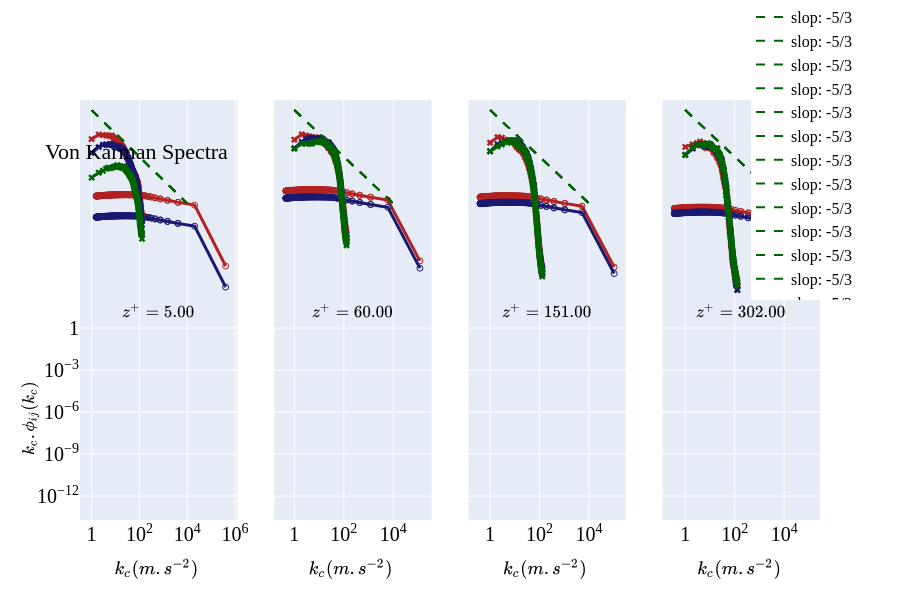
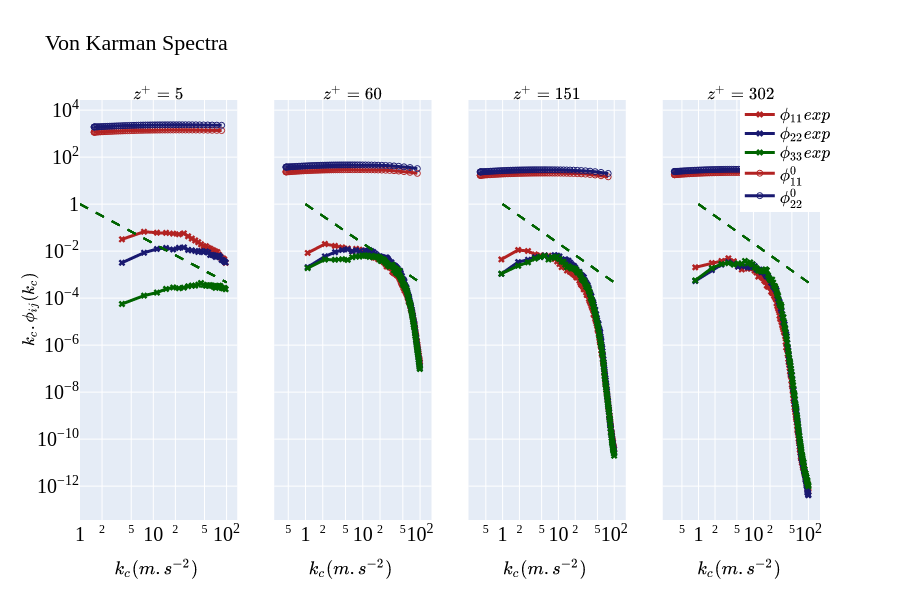
new

diff --git a/src/plot.py b/src/plot.py
@@ -10,19 +10,19 @@ font = dict(family="serif",
 
 def init_figures_ft(z, ch='normal'):
     if ch == 'normal':
-        fig1 = make_subplots(rows=1, cols=4, shared_yaxes=True, y_title='$\phi(k_x)$', subplot_titles=(f"$z^+={z[0]:.2f}$", f"$z^+={z[1]:.2f}$", f"$z^+={z[2]:.2f}$", f"$z^+={z[3]:.2f}$"))
+        fig1 = make_subplots(rows=1, cols=4, shared_yaxes=True, y_title='$\phi(k_x)$', subplot_titles=(f"$z^+={z[0]}$", f"$z^+={z[1]}$", f"$z^+={z[2]}$", f"$z^+={z[3]}$"))
         
-        fig2 = make_subplots(rows=1, cols=4, shared_yaxes=True, y_title='$R_{UU}(\delta t)$', horizontal_spacing=0.02, subplot_titles=(f"$z^+={z[0]:.2f}$", f"$z^+={z[1]:.2f}$", f"$z^+={z[2]:.2f}$", f"$z^+={z[3]:.2f}$"))
+        fig2 = make_subplots(rows=1, cols=4, shared_yaxes=True, y_title='$R_{UU}(\delta t)$', horizontal_spacing=0.02, subplot_titles=(f"$z^+={z[0]}$", f"$z^+={z[1]}$", f"$z^+={z[2]}$", f"$z^+={z[3]}$"))
         
-        fig3 = make_subplots(rows=1, cols=4, shared_yaxes=True, y_title='$\delta t$', subplot_titles=(f"$z^+={z[0]:.2f}$", f"$z^+={z[1]:.2f}$", f"$z^+={z[2]:.2f}$", f"$z^+={z[3]:.2f}$"))
+        fig3 = make_subplots(rows=1, cols=4, shared_yaxes=True, y_title='$\delta t$', subplot_titles=(f"$z^+={z[0]}$", f"$z^+={z[1]}$", f"$z^+={z[2]}$", f"$z^+={z[3]}$"))
 
         
     if ch == "all":
-        fig1 = make_subplots(rows=2, cols=5, shared_yaxes='rows', row_titles=('$\phi(k_x)$', '$\phi(k_x)$'), vertical_spacing=0.15, subplot_titles=(f"$z^+={z[0]:.2f}$", f"$z^+={z[1]:.2f}$", f"$z^+={z[2]:.2f}$", f"$z^+={z[3]:.2f}$", f"$z^+={z[4]:.2f}$", f"$z^+={z[5]:.2f}$", f"$z^+={z[6]:.2f}$", f"$z^+={z[7]:.2f}$", f"$z^+={z[8]:.2f}$", f"$z^+={z[9]:.2f}$"))
+        fig1 = make_subplots(rows=2, cols=5, shared_yaxes='rows', row_titles=('$\phi(k_x)$', '$\phi(k_x)$'), vertical_spacing=0.15, subplot_titles=(f"$z^+={z[0]}$", f"$z^+={z[1]}$", f"$z^+={z[2]}$", f"$z^+={z[3]}$", f"$z^+={z[4]}$", f"$z^+={z[5]}$", f"$z^+={z[6]}$", f"$z^+={z[7]}$", f"$z^+={z[8]}$", f"$z^+={z[9]}$"))
         
-        fig2 = make_subplots(rows=2, cols=5, shared_yaxes='rows', row_titles=('$R_{UU}(\delta t)$', '$R_{UU}(\delta t)$'), horizontal_spacing=0.02, subplot_titles=(f"$z^+={z[0]:.2f}$", f"$z^+={z[1]:.2f}$", f"$z^+={z[2]:.2f}$", f"$z^+={z[3]:.2f}$", f"$z^+={z[4]:.2f}$", f"$z^+={z[5]:.2f}$", f"$z^+={z[6]:.2f}$", f"$z^+={z[7]:.2f}$", f"$z^+={z[8]:.2f}$", f"$z^+={z[9]:.2f}$"))
+        fig2 = make_subplots(rows=2, cols=5, shared_yaxes='rows', row_titles=('$R_{UU}(\delta t)$', '$R_{UU}(\delta t)$'), horizontal_spacing=0.02, subplot_titles=(f"$z^+={z[0]}$", f"$z^+={z[1]}$", f"$z^+={z[2]}$", f"$z^+={z[3]}$", f"$z^+={z[4]}$", f"$z^+={z[5]}$", f"$z^+={z[6]}$", f"$z^+={z[7]}$", f"$z^+={z[8]}$", f"$z^+={z[9]}$"))
         
-        fig3 = make_subplots(rows=2, cols=5, shared_yaxes='rows', row_titles=('$\delta t$', '$\delta t$'), vertical_spacing=0.15, subplot_titles=(f"$z^+={z[0]:.2f}$", f"$z^+={z[1]:.2f}$", f"$z^+={z[2]:.2f}$", f"$z^+={z[3]:.2f}$", f"$z^+={z[4]:.2f}$", f"$z^+={z[5]:.2f}$", f"$z^+={z[6]:.2f}$", f"$z^+={z[7]:.2f}$", f"$z^+={z[8]:.2f}$", f"$z^+={z[9]:.2f}$"))
+        fig3 = make_subplots(rows=2, cols=5, shared_yaxes='rows', row_titles=('$\delta t$', '$\delta t$'), vertical_spacing=0.15, subplot_titles=(f"$z^+={z[0]}$", f"$z^+={z[1]}$", f"$z^+={z[2]}$", f"$z^+={z[3]}$", f"$z^+={z[4]}$", f"$z^+={z[5]}$", f"$z^+={z[6]}$", f"$z^+={z[7]}$", f"$z^+={z[8]}$", f"$z^+={z[9]}$"))
         
     
     return(fig1, fig2, fig3)
@@ -190,14 +190,14 @@ def frozen_turbulence_plot(fig, col, row, omega = None, Uc = None, time_spectra 
 def init_figures_gamma(z, ch='normal'):
     
     if ch == 'normal':
-        figu1 = make_subplots(rows=1, cols=4, shared_yaxes=True, y_title='$log(\phi(r_1,\omega)e^{-ik_cr_1} / \phi_{UU}(\omega))$', subplot_titles=(f"$z^+={z[0]:.2f}$", f"$z^+={z[1]:.2f}$", f"$z^+={z[2]:.2f}$", f"$z^+={z[3]:.2f}$"))
-        figu2 = make_subplots(rows=1, cols=4, shared_yaxes=True, y_title='$log(\phi(r_1,\omega)e^{-ik_cr_1} / \phi_{VV}(\omega))$', subplot_titles=(f"$z^+={z[0]:.2f}$", f"$z^+={z[1]:.2f}$", f"$z^+={z[2]:.2f}$", f"$z^+={z[3]:.2f}$"))
-        figu3 = make_subplots(rows=1, cols=4, shared_yaxes=True, y_title='$log(\phi(r_1,\omega)e^{-ik_cr_1} / \phi_{WW}(\omega))$', subplot_titles=(f"$z^+={z[0]:.2f}$", f"$z^+={z[1]:.2f}$", f"$z^+={z[2]:.2f}$", f"$z^+={z[3]:.2f}$"))
+        figu1 = make_subplots(rows=1, cols=4, shared_yaxes=True, y_title='$log(\phi(r_1,\omega)e^{-ik_cr_1} / \phi_{UU}(\omega))$', subplot_titles=(f"$z^+={z[0]}$", f"$z^+={z[1]}$", f"$z^+={z[2]}$", f"$z^+={z[3]}$"))
+        figu2 = make_subplots(rows=1, cols=4, shared_yaxes=True, y_title='$log(\phi(r_1,\omega)e^{-ik_cr_1} / \phi_{VV}(\omega))$', subplot_titles=(f"$z^+={z[0]}$", f"$z^+={z[1]}$", f"$z^+={z[2]}$", f"$z^+={z[3]}$"))
+        figu3 = make_subplots(rows=1, cols=4, shared_yaxes=True, y_title='$log(\phi(r_1,\omega)e^{-ik_cr_1} / \phi_{WW}(\omega))$', subplot_titles=(f"$z^+={z[0]}$", f"$z^+={z[1]}$", f"$z^+={z[2]}$", f"$z^+={z[3]}$"))
         
     if ch == "all":
-        figu1 = make_subplots(rows=2, cols=5, shared_yaxes='rows', row_titles=('$log(\phi(r_1,\omega)e^{-ik_cr_1} / \phi_{UU}(\omega))$', '$log(\phi(r_1,\omega)e^{-ik_cr_1} / \phi_{UU}(\omega))$'), vertical_spacing=0.15, subplot_titles=(f"$z^+={z[0]:.2f}$", f"$z^+={z[1]:.2f}$", f"$z^+={z[2]:.2f}$", f"$z^+={z[3]:.2f}$", f"$z^+={z[4]:.2f}$", f"$z^+={z[5]:.2f}$", f"$z^+={z[6]:.2f}$", f"$z^+={z[7]:.2f}$", f"$z^+={z[8]:.2f}$", f"$z^+={z[9]:.2f}$"))
-        figu2 = make_subplots(rows=2, cols=5, shared_yaxes='rows', row_titles=('$log(\phi(r_1,\omega)e^{-ik_cr_1} / \phi_{UU}(\omega))$', '$log(\phi(r_1,\omega)e^{-ik_cr_1} / \phi_{UU}(\omega))$'), vertical_spacing=0.15, subplot_titles=(f"$z^+={z[0]:.2f}$", f"$z^+={z[1]:.2f}$", f"$z^+={z[2]:.2f}$", f"$z^+={z[3]:.2f}$", f"$z^+={z[4]:.2f}$", f"$z^+={z[5]:.2f}$", f"$z^+={z[6]:.2f}$", f"$z^+={z[7]:.2f}$", f"$z^+={z[8]:.2f}$", f"$z^+={z[9]:.2f}$"))
-        figu3 = make_subplots(rows=2, cols=5, shared_yaxes='rows', row_titles=('$log(\phi(r_1,\omega)e^{-ik_cr_1} / \phi_{UU}(\omega))$', '$log(\phi(r_1,\omega)e^{-ik_cr_1} / \phi_{UU}(\omega))$'), vertical_spacing=0.15, subplot_titles=(f"$z^+={z[0]:.2f}$", f"$z^+={z[1]:.2f}$", f"$z^+={z[2]:.2f}$", f"$z^+={z[3]:.2f}$", f"$z^+={z[4]:.2f}$", f"$z^+={z[5]:.2f}$", f"$z^+={z[6]:.2f}$", f"$z^+={z[7]:.2f}$", f"$z^+={z[8]:.2f}$", f"$z^+={z[9]:.2f}$"))
+        figu1 = make_subplots(rows=2, cols=5, shared_yaxes='rows', row_titles=('$log(\phi(r_1,\omega)e^{-ik_cr_1} / \phi_{UU}(\omega))$', '$log(\phi(r_1,\omega)e^{-ik_cr_1} / \phi_{UU}(\omega))$'), vertical_spacing=0.15, subplot_titles=(f"$z^+={z[0]}$", f"$z^+={z[1]}$", f"$z^+={z[2]}$", f"$z^+={z[3]}$", f"$z^+={z[4]}$", f"$z^+={z[5]}$", f"$z^+={z[6]}$", f"$z^+={z[7]}$", f"$z^+={z[8]}$", f"$z^+={z[9]}$"))
+        figu2 = make_subplots(rows=2, cols=5, shared_yaxes='rows', row_titles=('$log(\phi(r_1,\omega)e^{-ik_cr_1} / \phi_{UU}(\omega))$', '$log(\phi(r_1,\omega)e^{-ik_cr_1} / \phi_{UU}(\omega))$'), vertical_spacing=0.15, subplot_titles=(f"$z^+={z[0]}$", f"$z^+={z[1]}$", f"$z^+={z[2]}$", f"$z^+={z[3]}$", f"$z^+={z[4]}$", f"$z^+={z[5]}$", f"$z^+={z[6]}$", f"$z^+={z[7]}$", f"$z^+={z[8]}$", f"$z^+={z[9]}$"))
+        figu3 = make_subplots(rows=2, cols=5, shared_yaxes='rows', row_titles=('$log(\phi(r_1,\omega)e^{-ik_cr_1} / \phi_{UU}(\omega))$', '$log(\phi(r_1,\omega)e^{-ik_cr_1} / \phi_{UU}(\omega))$'), vertical_spacing=0.15, subplot_titles=(f"$z^+={z[0]}$", f"$z^+={z[1]}$", f"$z^+={z[2]}$", f"$z^+={z[3]}$", f"$z^+={z[4]}$", f"$z^+={z[5]}$", f"$z^+={z[6]}$", f"$z^+={z[7]}$", f"$z^+={z[8]}$", f"$z^+={z[9]}$"))
         
     return(figu1, figu2, figu3)
 
@@ -205,20 +205,20 @@ def init_figures_gamma(z, ch='normal'):
 def init_figures_sc(z, ch='normal'):
     
     if ch == 'normal':
-        fig = make_subplots(rows=1, cols=4, shared_yaxes=True, y_title='$R(\delta x)$', subplot_titles=(f"$z^+={z[0]:.2f}$", f"$z^+={z[1]:.2f}$", f"$z^+={z[2]:.2f}$", f"$z^+={z[3]:.2f}$"))
+        fig = make_subplots(rows=1, cols=4, shared_yaxes=True, y_title='$R(\delta x)$', subplot_titles=(f"$z^+={z[0]}$", f"$z^+={z[1]}$", f"$z^+={z[2]}$", f"$z^+={z[3]}$"))
         
     if ch == "all":
-        fig = make_subplots(rows=2, cols=5, shared_yaxes='rows', row_titles=('$R(\delta x)$', '$\R(\delta x)$'), vertical_spacing=0.15, subplot_titles=(f"$z^+={z[0]:.2f}$", f"$z^+={z[1]:.2f}$", f"$z^+={z[2]:.2f}$", f"$z^+={z[3]:.2f}$", f"$z^+={z[4]:.2f}$", f"$z^+={z[5]:.2f}$", f"$z^+={z[6]:.2f}$", f"$z^+={z[7]:.2f}$", f"$z^+={z[8]:.2f}$", f"$z^+={z[9]:.2f}$"))
+        fig = make_subplots(rows=2, cols=5, shared_yaxes='rows', row_titles=('$R(\delta x)$', '$\R(\delta x)$'), vertical_spacing=0.15, subplot_titles=(f"$z^+={z[0]}$", f"$z^+={z[1]}$", f"$z^+={z[2]}$", f"$z^+={z[3]}$", f"$z^+={z[4]}$", f"$z^+={z[5]}$", f"$z^+={z[6]}$", f"$z^+={z[7]}$", f"$z^+={z[8]}$", f"$z^+={z[9]}$"))
     
     return(fig)
 
 def init_figures_vk(z, ch='normal'):
     
     if ch == 'normal':
-        fig = make_subplots(rows=1, cols=4, shared_yaxes=True, y_title='$k_c.\phi_{ij}(k_c)$', subplot_titles=(f"$z^+={z[0]:.2f}$", f"$z^+={z[1]:.2f}$", f"$z^+={z[2]:.2f}$", f"$z^+={z[3]:.2f}$"))
+        fig = make_subplots(rows=1, cols=4, shared_yaxes=True, y_title='$k_c.\phi_{ij}(k_c)$', subplot_titles=(f"$z^+={z[0]}$", f"$z^+={z[1]}$", f"$z^+={z[2]}$", f"$z^+={z[3]}$"))
         
     if ch == "all":
-        fig = make_subplots(rows=2, cols=5, shared_yaxes='rows', row_titles=('$k_c.\phi_{ij}(k_c)$', '$k_c.\phi_{ij}(k_c)$'), vertical_spacing=0.15, subplot_titles=(f"$z^+={z[0]:.2f}$", f"$z^+={z[1]:.2f}$", f"$z^+={z[2]:.2f}$", f"$z^+={z[3]:.2f}$", f"$z^+={z[4]:.2f}$", f"$z^+={z[5]:.2f}$", f"$z^+={z[6]:.2f}$", f"$z^+={z[7]:.2f}$", f"$z^+={z[8]:.2f}$", f"$z^+={z[9]:.2f}$"))
+        fig = make_subplots(rows=2, cols=5, shared_yaxes='rows', row_titles=('$k_c.\phi_{ij}(k_c)$', '$k_c.\phi_{ij}(k_c)$'), vertical_spacing=0.15, subplot_titles=(f"$z^+={z[0]}$", f"$z^+={z[1]}$", f"$z^+={z[2]}$", f"$z^+={z[3]}$", f"$z^+={z[4]}$", f"$z^+={z[5]}$", f"$z^+={z[6]}$", f"$z^+={z[7]}$", f"$z^+={z[8]}$", f"$z^+={z[9]}$"))
     
     return(fig)
 
@@ -226,17 +226,19 @@ def von_karman_plot(fig, col, row, kc, phi, name = 'corr', color = 'firebrick', 
     
     if col == 4 and row == 1:
         fig.add_trace(go.Scatter(x=kc, y=phi, name=name, mode= 'lines+markers', line=dict(color=color, width=3), marker=dict(symbol=symbols)), row=row, col=col)
+        lin1 = np.logspace(0,2)
+        fig.add_trace(go.Scatter(x=lin1, y=lin1**(-5./3), line=dict(color='darkgreen', dash='dash', width=2), showlegend=False), row=row, col=col)
         fig.update_xaxes(title='$k_c(m.s^{-2})$', type="log", exponentformat='power', row=row, col=col)
         fig.update_yaxes(type="log", exponentformat='power', row=row, col=col)#, range=[-6,0])
-        lin1 = np.logspace(0,4)
-        fig.add_trace(go.Scatter(x=lin1, y=lin1**(-5./3), line=dict(color='darkgreen', dash='dash', width=2), name='slop: -5/3'), row=row, col=col)
+        
         
     else:
         fig.add_trace(go.Scatter(x=kc, y=phi, name=name, mode= 'lines+markers', line=dict(color=color, width=3), marker=dict(symbol=symbols), showlegend=False), row=row, col=col)
+        lin1 = np.logspace(0,2)
+        fig.add_trace(go.Scatter(x=lin1, y=lin1**(-5./3), line=dict(color='darkgreen', dash='dash', width=2), showlegend=False), row=row, col=col)
         fig.update_xaxes(title='$k_c(m.s^{-2})$', type="log", exponentformat='power', row=row, col=col)
         fig.update_yaxes(type="log", exponentformat='power', row=row, col=col)#, range=[-6,0])
-        lin1 = np.logspace(0,4)
-        fig.add_trace(go.Scatter(x=lin1, y=lin1**(-5./3), line=dict(color='darkgreen', dash='dash', width=2), showlegend=False), row=row, col=col)
+        
         
     return(None)
 

diff --git a/src/main.py b/src/main.py
@@ -1763,6 +1763,72 @@ def main():
         print(f'Von Karman theory for {YELLOW}zp={zp[ind]:.2f}{RESET}')
         print('Plan number:', zplan)
     
+        ### experience ###
+        ## u1 ##
+        print(f"Computing spectra from LES datas for {YELLOW}z={zp[ind]:.2f}{RESET} ...\n")
+        _,_,_,var,_,_,_,_,_,_,_,_,_ = read_fpar_extract_plane(fpars_files_streamwise_u1[zplan])
+        datas_u1 = var[1:,:,:]
+        Ux = np.mean(np.mean(np.mean(datas_u1[:,:,:], axis=-1), axis=-1))
+        datas_u1 = datas_u1 - Ux
+        
+        omega, k, _, phi11_exp = frozen_turbulence(datas_u1, ind, zp, nt, split_time, dt, n1, dx=dx, ch="spectra")
+        k /= Ux
+        
+        lim = 400
+        for i in range(k.shape[0]):
+            if k[i] > lim:
+                tick_w = i
+                break
+            
+        del datas_u1
+        
+        von_karman_plot(fig_vanK, col, row, k[1:tick_w], k[1:tick_w]*phi11_exp[1:tick_w], name = '$\phi_{11}exp$', color = 'firebrick', symbols='x')
+        
+        int_exp1 = integrate.simpson(phi11_exp[1:], k[1:])
+        
+        del phi11_exp
+        del k
+
+        
+        ## u2 ##
+        _,_,_,var,_,_,_,_,_,_,_,_,_ = read_fpar_extract_plane(fpars_files_streamwise_u2[zplan])
+        nt = nt - 1
+        datas_u2 = var[1:,:,:]
+        Uy = np.mean(np.mean(np.mean(datas_u2[:,:,:], axis=-1), axis=-1))
+        datas_u2 = datas_u2 - Uy
+
+        omega, k, _, phi22_exp = frozen_turbulence(datas_u2, ind, zp, nt, split_time, dt, n1, dx=dx, ch="spectra")
+        k /= Ux
+        
+        del datas_u2
+                
+        von_karman_plot(fig_vanK, col, row, k[1:tick_w], k[1:tick_w]*phi22_exp[1:tick_w], name = '$\phi_{22}exp$', color = 'midnightblue', symbols='x')
+        
+        int_exp2 = integrate.simpson(phi22_exp[1:], k[1:])
+            
+        del phi22_exp
+        del k
+
+        
+        ## u3 ##
+        _,_,_,var,_,_,_,_,_,_,_,_,_ = read_fpar_extract_plane(fpars_files_streamwise_u3[zplan])
+        nt = nt - 1
+        datas_u3 = var[1:,:,:]
+        Uz = np.mean(np.mean(np.mean(datas_u3[:,:,:], axis=-1), axis=-1))
+        datas_u3 = datas_u3 - Uz
+
+        omega, k, _, phi33_exp = frozen_turbulence(datas_u3, ind, zp, nt, split_time, dt, n1, dx=dx, ch="spectra")
+        k /= Ux
+        print('k:', k)
+        
+        del datas_u3
+        
+        von_karman_plot(fig_vanK, col, row, k[1:tick_w], k[1:tick_w]*phi33_exp[1:tick_w], name = '$\phi_{33}exp$', color = 'darkgreen', symbols='x')
+            
+        del phi33_exp
+        #del k
+    
+        ## Theoric VK ##
         print(f"Reading input files (u1 velocity) for {YELLOW}z={zp[ind]:.2f}{RESET} ...\n")
         _,_,_,var,_,_,_,_,_,_,_,_,_ = read_fpar_extract_plane(fpars_files_streamwise_u1[zplan])
         nt = nt - 1
@@ -1809,6 +1875,7 @@ def main():
 
         sigma_w_squared = np.mean(np.mean(np.mean((datas_u3[:,:,:]-Uz)**2, axis=0), axis=-1))
         
+        kt = 1./2 * (sigma_u_squared + sigma_v_squared + sigma_w_squared)
             
         del datas_u3
         print('sigma_w_squared:', sigma_w_squared)
@@ -1823,82 +1890,58 @@ def main():
         print("========================================")
         print(f"Computing L for {YELLOW}z={zp[ind]:.2f}{RESET} ...\n")
         
-        Le = L(0.519, ko2_tke, ko2_omega) #list length omega
+        dis = ko2_omega.shape[0]
+        Le = L(0.519, ko2_tke[dis//2:], ko2_omega[dis//2:]) #list length omega
+        #Le = L(0.519, kt, k*Ux)
         
-        kc, phi11 = phi_11(ko2_omega, 1.0, Ux, sigma11, Le)
-        kc, phi22 = phi_22(ko2_omega, 1.0, Ux, sigma12, Le) #=R33
+        kc, phi11 = phi_11(ko2_omega[dis//2:], 1.0, Ux, sigma11, Le)
+        kc, phi22 = phi_22(ko2_omega[dis//2:], 1.0, Ux, sigma12, Le) #=R33
+        # kc, phi11 = phi_11(k, 1.0, Ux, sigma11, Le)
+        # kc, phi22 = phi_22(k, 1.0, Ux, sigma12, Le)
+
         
-        ratio11 = sigma11**2*Le
-        ratio12 = sigma12**2*Le
-        ratio21 = (3 + 8*(1*kc*Le)**2) / (1 + (1*kc * Le)**2)**(11/6.)
-        ratio22 = 1. / (1 + (1*kc*Le)**2)**(5/6.)
+        lim = 400
+        for i in range(kc.shape[0]):
+            if kc[i] > lim:
+                tick_w = i
+                break
+            
+        print('tick_w',tick_w)
         
-        print('sum21:', sum(ratio21))
-        print('sum22:', sum(ratio22))
+        # ratio11 = sigma11**2*Le
+        # ratio12 = sigma12**2*Le
+        # ratio21 = (3 + 8*(1*kc*Le)**2) / (1 + (1*kc * Le)**2)**(11/6.)
+        # ratio22 = 1. / (1 + (1*kc*Le)**2)**(5/6.)
         
-        ratio21 = integrate.simps(ratio21, ko2_omega)
-        ratio22 = integrate.simps(ratio22, ko2_omega)
+        # print('sum21:', sum(ratio21))
+        # print('sum22:', sum(ratio22))
+        
+        # ratio21 = integrate.simps(ratio21, ko2_omega)
+        # ratio22 = integrate.simps(ratio22, ko2_omega)
+        
+        int_theo1 = integrate.simpson(phi11[:tick_w], kc[:tick_w])
+        int_theo2 = integrate.simpson(phi22[:tick_w], kc[:tick_w])
+        
+        # int_theo1 = sum(phi11)
+        # int_theo2 = sum(phi22)
         
         # print('ratio11:', ratio11)
         # print('ratio12:', ratio12)
-        print('ratio21:', ratio21)
-        print('ratio22:', ratio22)
+        # print('ratio21:', ratio21)
+        # print('ratio22:', ratio22)
+        print('int_theo1:', int_theo1)
+        print('int_theo2:', int_theo2)
         
-        von_karman_plot(fig_vanK, col, row, kc[:-2], kc[:-2]*phi11[:-2], name = '$\phi^{0}_{11}$', color = 'firebrick', symbols='circle-open')
-        von_karman_plot(fig_vanK, col, row, kc[:-2], kc[:-2]*phi22[:-2], name = '$\phi^{0}_{22}$', color = 'midnightblue', symbols='circle-open')
+        new_phi11 = kc[:tick_w]*phi11[:tick_w]# * int_exp1**2 / int_theo1**2
+        new_phi22 = kc[:tick_w]*phi22[:tick_w]# * int_exp2**2 / int_theo2**2
+        
+        von_karman_plot(fig_vanK, col, row, kc[:tick_w], new_phi11, name = '$\phi^{0}_{11}$', color = 'firebrick', symbols='circle-open')
+        von_karman_plot(fig_vanK, col, row, kc[:tick_w], new_phi22, name = '$\phi^{0}_{22}$', color = 'midnightblue', symbols='circle-open')
         
         del kc
         del phi11
         del phi22
         
-        
-        ### experience ###
-        ## u1 ##
-        print(f"Computing spectra from LES datas for {YELLOW}z={zp[ind]:.2f}{RESET} ...\n")
-        _,_,_,var,_,_,_,_,_,_,_,_,_ = read_fpar_extract_plane(fpars_files_streamwise_u1[zplan])
-        datas_u1 = var[1:,:,:]
-        Ux = np.mean(np.mean(np.mean(datas_u1[:,:,:], axis=-1), axis=-1))
-        datas_u1 = datas_u1 - Ux
-        
-        omega, k, _, phi11_exp = frozen_turbulence(datas_u1, ind, zp, nt, split_time, dt, n1, dx=dx, ch="spectra")
-        del datas_u1
-        
-        von_karman_plot(fig_vanK, col, row, k[1:], k[1:]*phi11_exp[1:], name = '$\phi_{11}exp$', color = 'firebrick', symbols='x')
-        
-        del phi11_exp
-        del k
-
-        
-        ## u2 ##
-        _,_,_,var,_,_,_,_,_,_,_,_,_ = read_fpar_extract_plane(fpars_files_streamwise_u2[zplan])
-        nt = nt - 1
-        datas_u2 = var[1:,:,:]
-        Uy = np.mean(np.mean(np.mean(datas_u2[:,:,:], axis=-1), axis=-1))
-        datas_u2 = datas_u2 - Uy
-
-        omega, k, _, phi22_exp = frozen_turbulence(datas_u2, ind, zp, nt, split_time, dt, n1, dx=dx, ch="spectra")
-        del datas_u2
-                
-        von_karman_plot(fig_vanK, col, row, k[1:], k[1:]*phi22_exp[1:], name = '$\phi_{22}exp$', color = 'midnightblue', symbols='x')
-            
-        del phi22_exp
-        del k
-
-        
-        ## u3 ##
-        _,_,_,var,_,_,_,_,_,_,_,_,_ = read_fpar_extract_plane(fpars_files_streamwise_u3[zplan])
-        nt = nt - 1
-        datas_u3 = var[1:,:,:]
-        Uz = np.mean(np.mean(np.mean(datas_u3[:,:,:], axis=-1), axis=-1))
-        datas_u3 = datas_u3 - Uz
-
-        omega, k, _, phi33_exp = frozen_turbulence(datas_u3, ind, zp, nt, split_time, dt, n1, dx=dx, ch="spectra")
-        del datas_u3
-                
-        von_karman_plot(fig_vanK, col, row, k[1:], k[1:]*phi33_exp[1:], name = '$\phi_{33}exp$', color = 'darkgreen', symbols='x')
-            
-        del phi33_exp
-        del k
         
         col +=1
         if zplan == 4:
@@ -1907,10 +1950,10 @@ def main():
             
             
     if ch_plot == 'normal':
-        fig_vanK.update_layout(height=600, width=900, title=f"Von Karman Spectra", font=font, showlegend=True, legend=dict(yanchor="bottom", y=1.03, xanchor="right", x=1.05))
-        save_figures(fig_vanK, "von_karman/von_karman_spectra.png")
+        fig_vanK.update_layout(height=600, width=900, title=f"Von Karman Spectra", font=font, showlegend=True, legend=dict(yanchor="top", xanchor="right"))
+        save_figures(fig_vanK, "von_karman/von_karman_spectra_.png")
     if ch_plot == 'all':
-        fig_vanK.update_layout(height=900, width=900, title=f"Von Karman Spectra", font=font, showlegend=True, legend=dict(yanchor="bottom", y=1.03, xanchor="right", x=1.05))
+        fig_vanK.update_layout(height=900, width=900, title=f"Von Karman Spectra", font=font, showlegend=True, legend=dict(yanchor="top", xanchor="right"))
         save_figures(fig_vanK, "von_karman/von_karman_spectra_all.png")
         
     elapsed_time = time.time() - start_time

diff --git a/src/engine.py b/src/engine.py
@@ -19,6 +19,7 @@ def frozen_turbulence(datas, zplan, z, nt, split_time, dt, n1, dx = None, tEnd =
             var1 = 0.
             inte_space = 0.
             inte_time = 0.
+            sum_space = 0.
             
             for n in tqdm(range(1,num_split_t), desc=f'PSD (z={z[zplan]:.2f})', colour= 'GREEN'):
 
@@ -35,6 +36,7 @@ def frozen_turbulence(datas, zplan, z, nt, split_time, dt, n1, dx = None, tEnd =
             var1 /= (num_split_t-1)
             inte_time /= (num_split_t-1)
             inte_space /= (num_split_t-1)
+            sum_space /= (num_split_t-1)
             print('<uiui>=',var1)
             print('Inte_time:', inte_time)
             print('Inte_space:', inte_space)

diff --git a/src/von_karman.py b/src/von_karman.py
@@ -17,7 +17,7 @@ def phi_11(omega, a1, Uc, sigma1c, Le):
     nw = omega.shape[0]
     res = np.zeros((nw))
     kc = omega / Uc
-    ke = 1./Le
+    #ke = 1./Le
     for w in range(nw):
         res[w] = a1 * 36*special.gamma(17/6.)*sigma1c**2*Le[w] / (np.sqrt(np.pi)*55*special.gamma(1/3.) * (1 + (a1*kc[w]*Le[w])**2)**(5/6.))
     return(kc, res)
